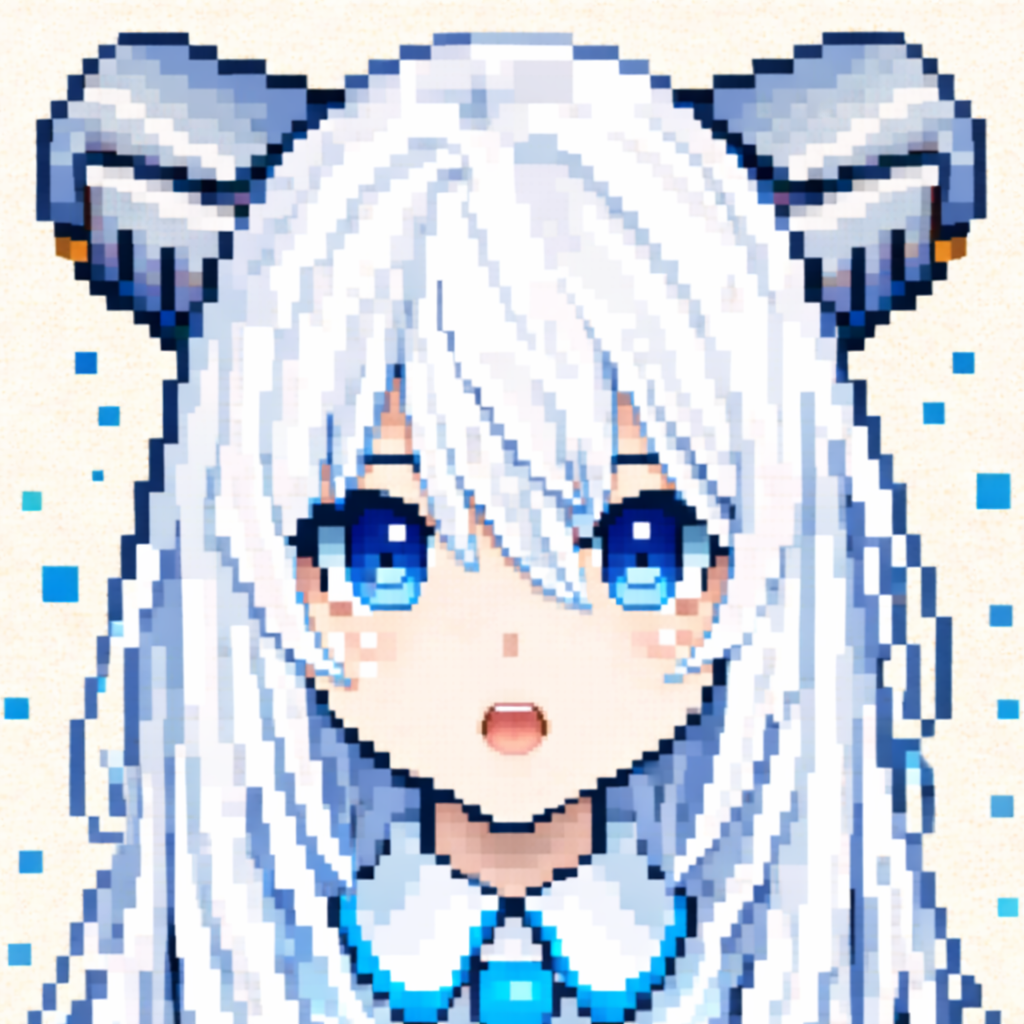
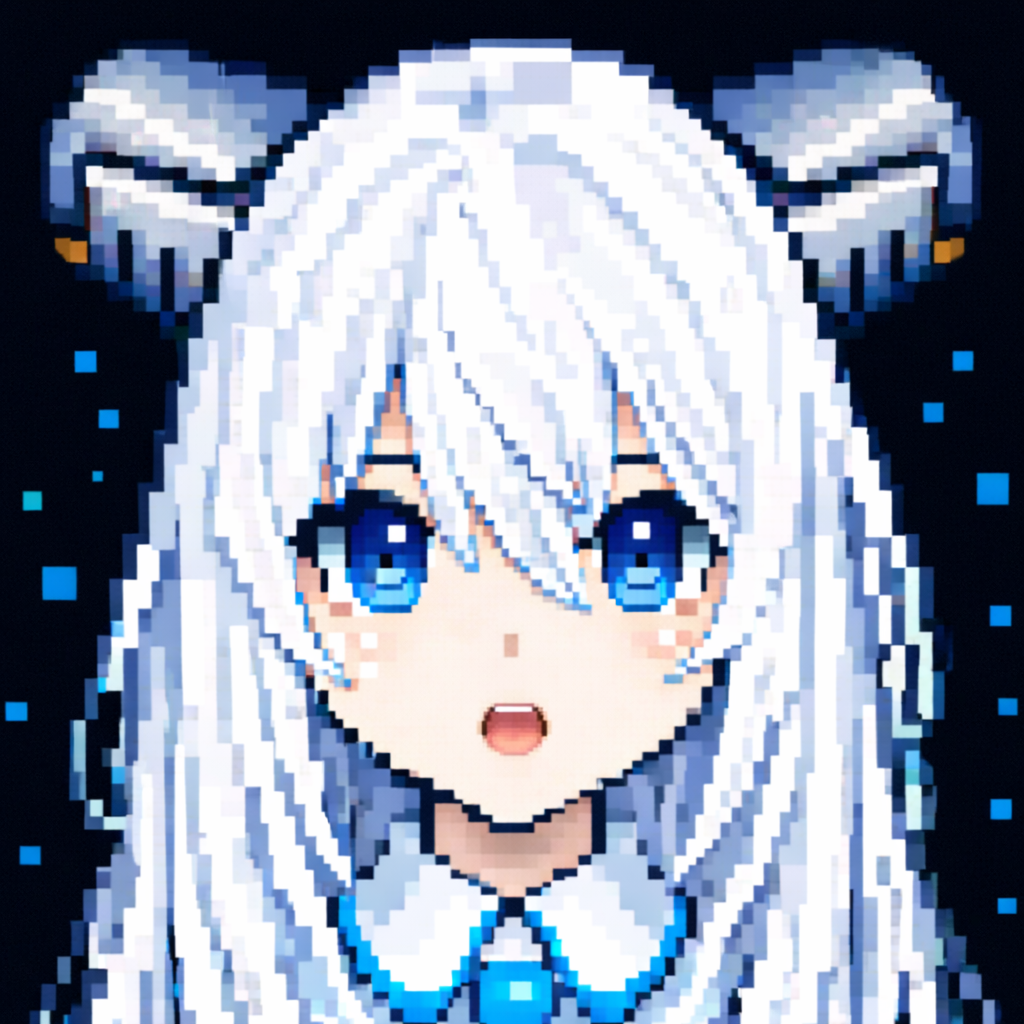
chore: アバター画像更新 + 表示サイズをペイン100%に拡大

diff --git a/src/renderer/style.css b/src/renderer/style.css
@@ -355,8 +355,8 @@ body {
 }
 
 .avatar-display img {
-  width: 120px;
-  height: 120px;
+  max-width: 100%;
+  max-height: 100%;
   image-rendering: pixelated;
 }
 
